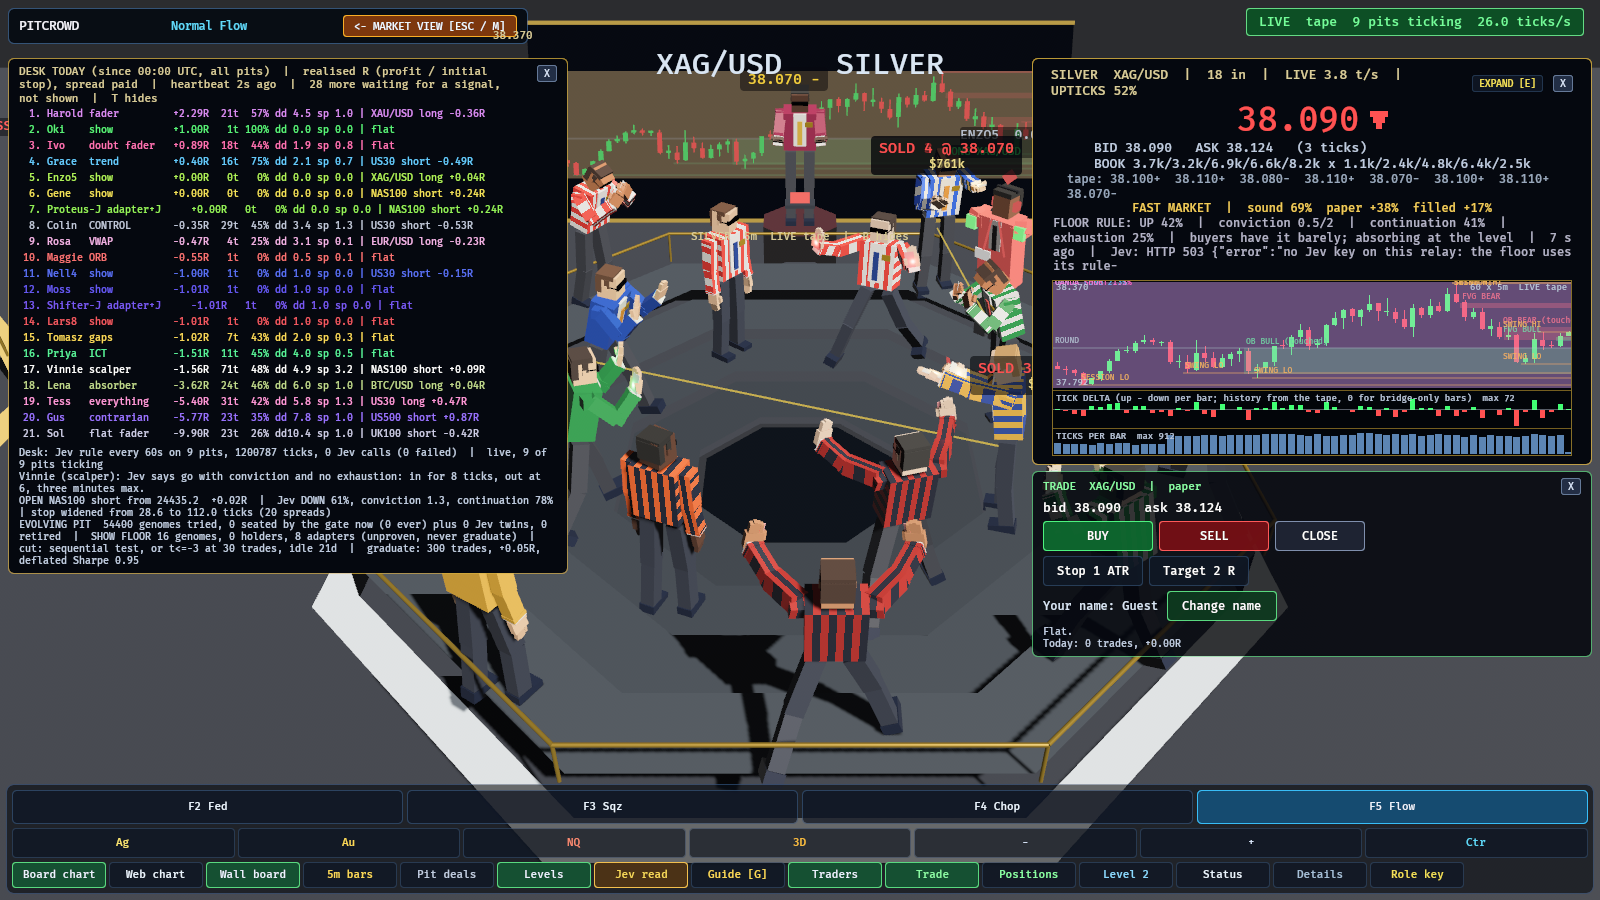
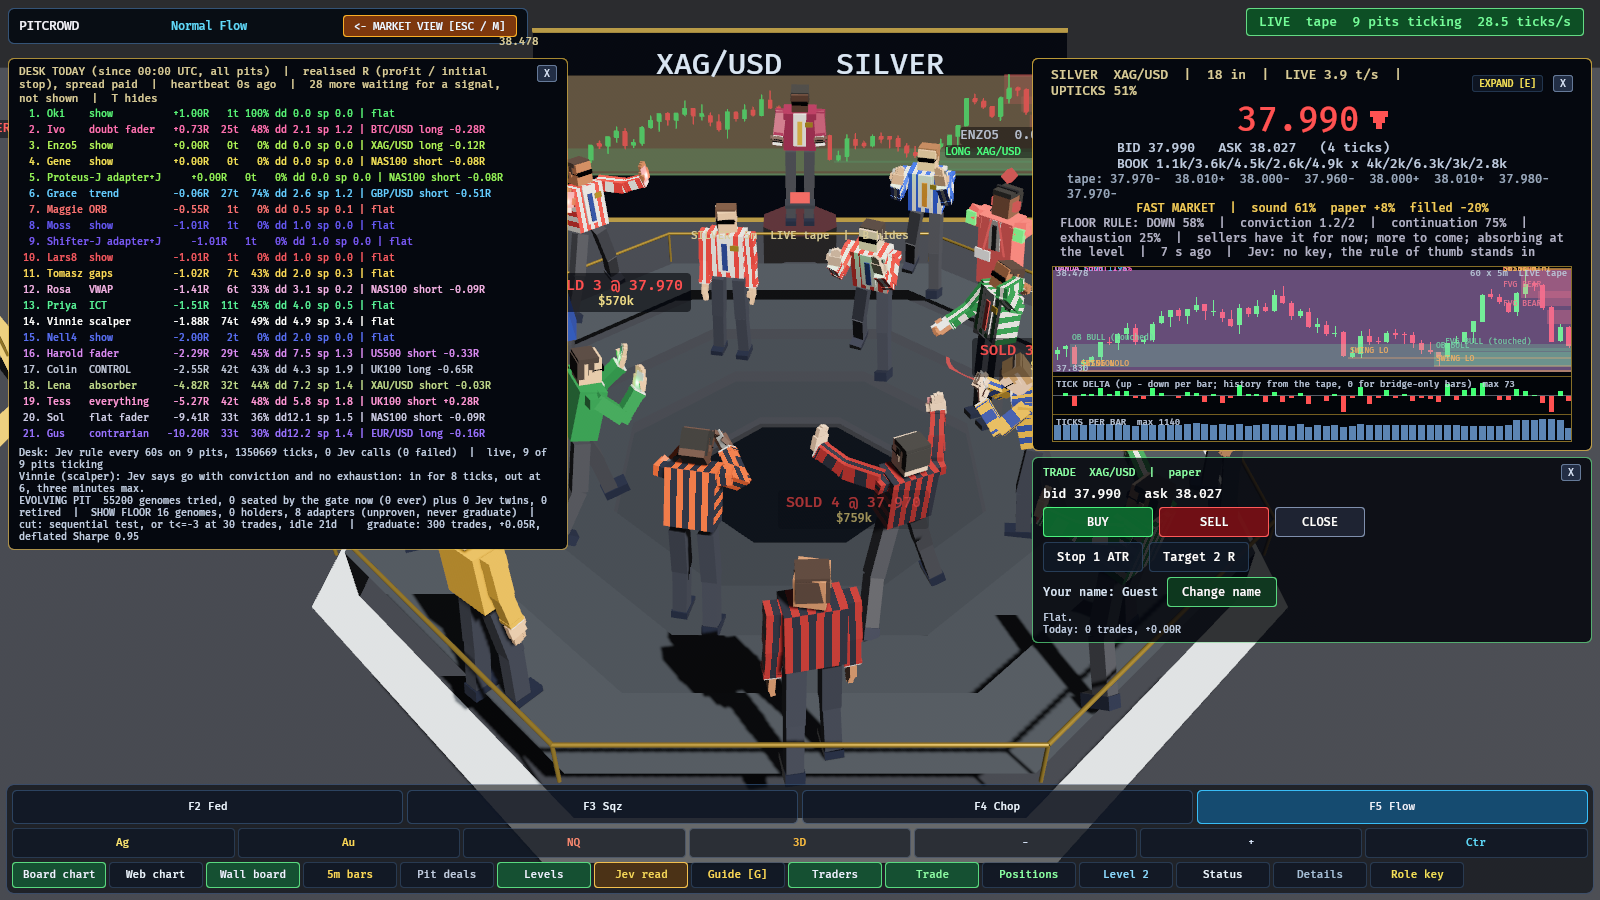
fix(floor): no-key Jev reads say so plainly; the wall board sits square to the screen
- With no key the relay answers 503 {"no_key":true}; the price board showed that raw
  ("Jev: HTTP 503 {"error":...") to everyone without a key. It now reads "no key, the rule of
  thumb stands in". Other HTTP errors are unchanged.
- The wall board faced the camera's position, so a pit near the edge of the market view
  (Bitcoin) drew it as a skewed parallelogram leaning across the pit. It now faces along the
  camera's view direction: parallel to the screen, top up, from any angle.
- docs/media/panels.png retaken with the new wording.

diff --git a/opencry-visual/src/wall_board.rs b/opencry-visual/src/wall_board.rs
@@ -112,14 +112,23 @@ const SYMBOL_LINE_H: f32 = 36.0;
 const SYMBOL_MIN_TOP: f32 = 46.0;
 
 /// Board transform: centred `back` units behind the pit from the camera's point of view,
-/// `y` up, turned square-on to the camera so it reads from any angle.
-pub fn board_transform(origin: Vec3, cam_pos: Vec3, p: BoardPlacement) -> Transform {
+/// `y` up, and parallel to the screen: it faces along the camera's view direction, not at the
+/// camera. Turned toward the camera's position instead, a board off to the side of the view
+/// (the Bitcoin pit, at the corner of the market view) showed up as a skewed parallelogram
+/// leaning across its pit.
+pub fn board_transform(
+    origin: Vec3,
+    cam_pos: Vec3,
+    cam_forward: Vec3,
+    p: BoardPlacement,
+) -> Transform {
     let mut away = origin - cam_pos;
     away.y = 0.0;
     let away = away.normalize_or(Vec3::Z);
     let centre = origin + away * p.back + Vec3::new(0.0, p.y, 0.0);
-    // Local +Z (the candle side) faces the camera: look away from it.
-    Transform::from_translation(centre).looking_to(centre - cam_pos, Vec3::Y)
+    // Local +Z (the candle side) faces the camera: look the way the camera looks.
+    let look = cam_forward.normalize_or(centre - cam_pos);
+    Transform::from_translation(centre).looking_to(look, Vec3::Y)
 }
 
 #[derive(Component)]
@@ -385,7 +394,12 @@ pub fn update_wall_board(
     } else {
         FOCUS_PLACEMENT
     };
-    *board_tf = board_transform(pit_3d_origin(inst), cam_tf.translation(), place);
+    *board_tf = board_transform(
+        pit_3d_origin(inst),
+        cam_tf.translation(),
+        *cam_tf.forward(),
+        place,
+    );
     *board_vis = Visibility::Inherited;
     let (bw, bh) = (place.w, place.h);
 
@@ -632,7 +646,7 @@ mod tests {
     }
 
     #[test]
-    fn board_faces_the_camera_and_keeps_its_top_up_from_any_angle() {
+    fn board_is_parallel_to_the_screen_and_keeps_its_top_up_from_any_angle() {
         let origin = Vec3::new(120.0, 0.0, -80.0);
         for &place in &[FOCUS_PLACEMENT, MARKET_PLACEMENT] {
             for pitch_deg in [6.0f32, 36.0, 58.0, 85.0] {
@@ -641,12 +655,18 @@ mod tests {
                     let r = 96.0;
                     let cam = origin
                         + Vec3::new(r * p.cos() * y.sin(), r * p.sin(), r * p.cos() * y.cos());
-                    let tf = board_transform(origin, cam, place);
-                    let to_cam = (cam - tf.translation).normalize();
-                    assert!(
-                        tf.forward().dot(to_cam) < -0.99,
-                        "local +Z faces the camera at pitch {pitch_deg} yaw {yaw_deg}"
-                    );
+                    // The camera looks at the pit, or off to one side of it (the market view,
+                    // where the pit sits near a corner of the screen).
+                    let at_pit = (origin - cam).normalize();
+                    let aside = Quat::from_rotation_y(0.5) * at_pit;
+                    for fwd in [at_pit, aside] {
+                        let tf = board_transform(origin, cam, fwd, place);
+                        assert!(
+                            tf.forward().dot(fwd) > 0.999,
+                            "the board faces along the view at pitch {pitch_deg} yaw {yaw_deg}"
+                        );
+                    }
+                    let tf = board_transform(origin, cam, at_pit, place);
                     let hi = tf.transform_point(Vec3::new(-place.w * 0.5, place.h * 0.5, 0.0));
                     let lo = tf.transform_point(Vec3::new(-place.w * 0.5, -place.h * 0.5, 0.0));
                     assert!(hi.y > lo.y, "the high corner is above the low one");

diff --git a/opencry-visual/src/jev.rs b/opencry-visual/src/jev.rs
@@ -1035,6 +1035,11 @@ impl ModelError {
                 "relay unreachable ({})",
                 e.chars().take(60).collect::<String>()
             ),
+            // The relay's answer when it has no key (`jev_relay`): the normal state for anyone
+            // without one, so say it plainly rather than as an error.
+            ModelError::Status(503, body) if body.contains("\"no_key\":true") => {
+                "no key, the rule of thumb stands in".to_string()
+            }
             ModelError::Status(code, body) => {
                 format!("HTTP {code} {}", body.chars().take(60).collect::<String>())
             }
@@ -2213,5 +2218,16 @@ mod tests {
         let mut off = JevDesk::with_model(Box::new(DeterministicModel));
         off.enabled = false;
         assert_eq!(off.board_line(Instrument::Gold, 0.0, true), "JEV: off  (J)");
+    }
+
+    #[test]
+    fn a_relay_without_a_key_reads_as_plain_words_not_an_error() {
+        let no_key = ModelError::Status(
+            503,
+            r#"{"error":"no Jev key on this relay: the floor uses its rule-of-thumb stand-in","no_key":true}"#.into(),
+        );
+        assert_eq!(no_key.short(), "no key, the rule of thumb stands in");
+        let other = ModelError::Status(503, "busy".into());
+        assert_eq!(other.short(), "HTTP 503 busy");
     }
 }
